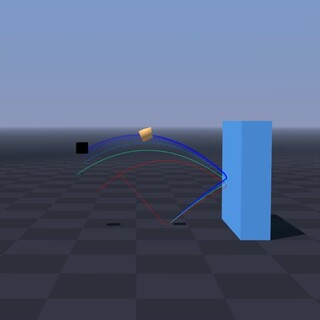
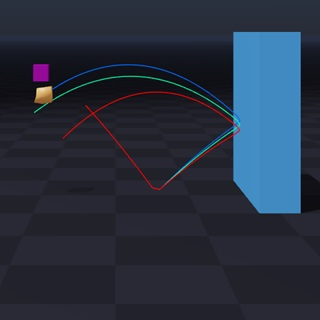
Color diffsim soft body target box purple
The target box was rendered black, which blended into the scene
and made it hard to see where the soft body was being optimized
to land. Use a purple color so the target is clearly visible
against the rest of the rendered scene.

diff --git a/newton/examples/diffsim/example_diffsim_soft_body.py b/newton/examples/diffsim/example_diffsim_soft_body.py
@@ -348,7 +348,7 @@ class Example:
                 newton.GeoType.BOX,
                 (0.1, 0.1, 0.1),
                 wp.array([wp.transform(self.target, wp.quat_identity())], dtype=wp.transform),
-                wp.array([wp.vec3(0.0, 0.0, 0.0)], dtype=wp.vec3),
+                wp.array([wp.vec3(0.5, 0.0, 0.5)], dtype=wp.vec3),
             )
             self.viewer.log_lines(
                 f"/traj_{self.train_iter - 1}",